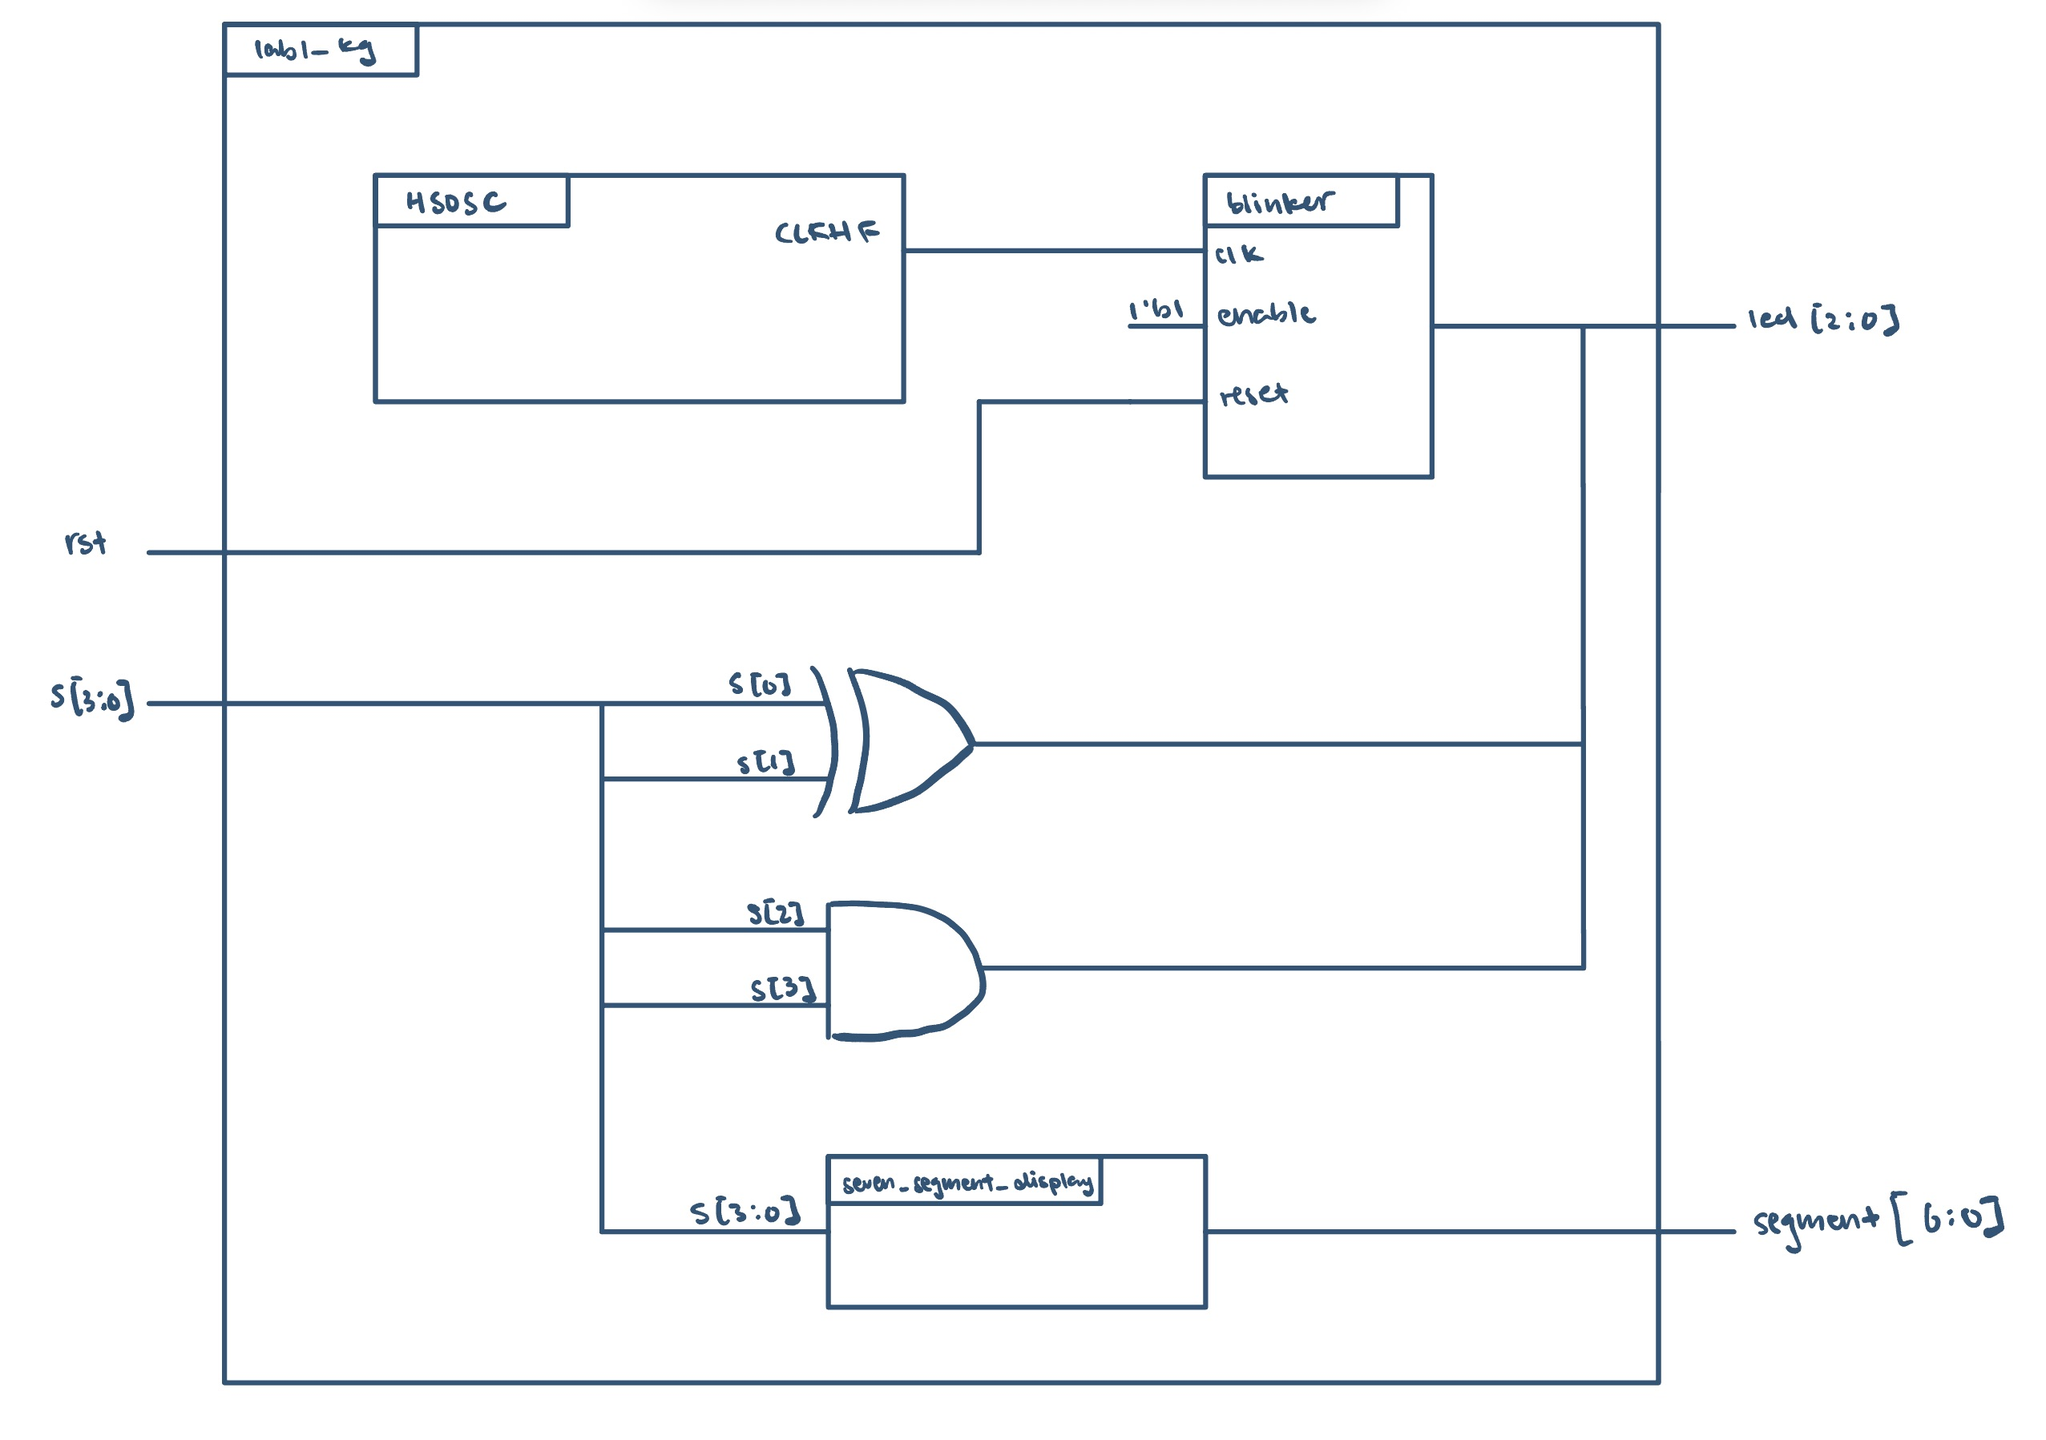
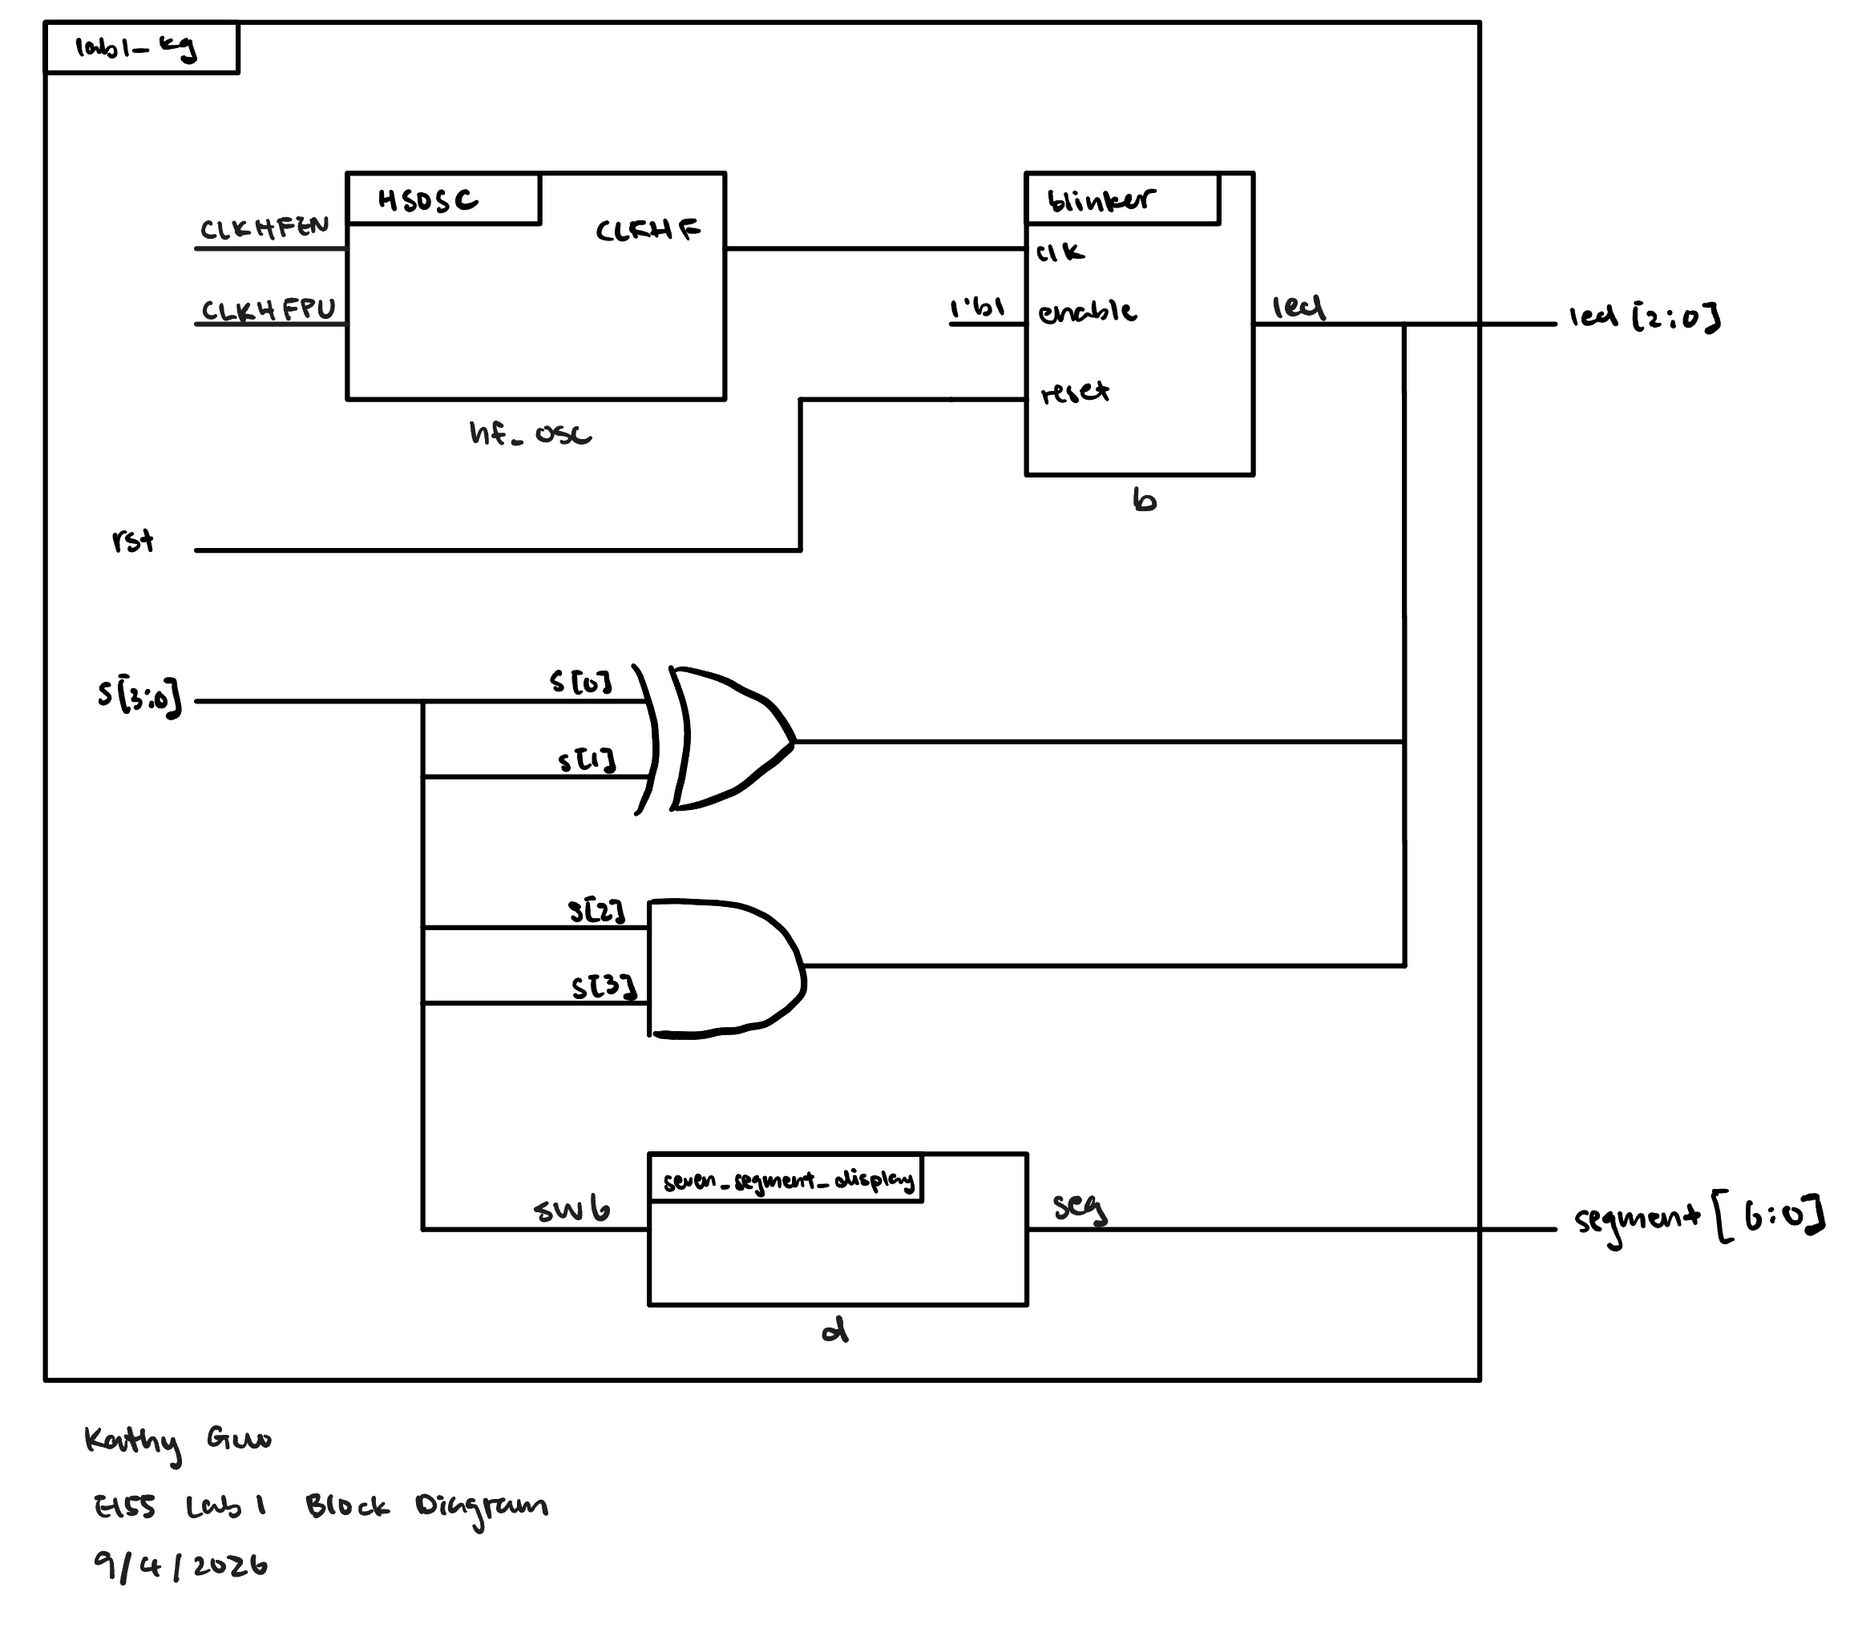
Built site for gh-pages

diff --git a/labs/lab1/lab1.html b/labs/lab1/lab1.html
@@ -161,14 +161,7 @@ window.Quarto = {
   <li><a href="#technical-documentation" id="toc-technical-documentation" class="nav-link" data-scroll-target="#technical-documentation">Technical Documentation</a>
   <ul class="collapse">
   <li><a href="#schematic" id="toc-schematic" class="nav-link" data-scroll-target="#schematic">Schematic</a></li>
-  <li><a href="#block-diagram" id="toc-block-diagram" class="nav-link" data-scroll-target="#block-diagram">Block Diagram</a></li>
   </ul></li>
-  <li><a href="#results-and-discussion" id="toc-results-and-discussion" class="nav-link" data-scroll-target="#results-and-discussion">Results and Discussion</a>
-  <ul class="collapse">
-  <li><a href="#testbench-simulation" id="toc-testbench-simulation" class="nav-link" data-scroll-target="#testbench-simulation">Testbench Simulation</a></li>
-  </ul></li>
-  <li><a href="#conclusion" id="toc-conclusion" class="nav-link" data-scroll-target="#conclusion">Conclusion</a></li>
-  <li><a href="#ai-prototype-summary" id="toc-ai-prototype-summary" class="nav-link" data-scroll-target="#ai-prototype-summary">AI Prototype Summary</a></li>
   </ul>
 </nav>
     </div>
@@ -210,68 +203,74 @@ window.Quarto = {
 <p>The source code for the project can be found in the associated <a href="https://github.com/kathy-guo811/e155-lab1">Github repository</a>.</p>
 <section id="schematic" class="level3">
 <h3 class="anchored" data-anchor-id="schematic">Schematic</h3>
-<div class="quarto-figure quarto-figure-center">
-<figure class="figure">
-<p><img src="lab1_images/lab1_sch.jpeg" class="img-fluid figure-img"></p>
-<figcaption>Figure 1: Schematic of the Physical Layout, Kathy Guo, 9/4/2026</figcaption>
-</figure>
+<div class="callout callout-style-simple callout-note no-icon callout-titled" title="Expand to see Lab 1 Schematic">
+<div class="callout-header d-flex align-content-center collapsed" data-bs-toggle="collapse" data-bs-target=".callout-4-contents" aria-controls="callout-4" aria-expanded="false" aria-label="Toggle callout">
+<div class="callout-icon-container">
+<i class="callout-icon no-icon"></i>
 </div>
-<p>Figure 1 shows the physical layout of the design. The pins connected to s[3:0] were configured with 100kΩ pull-up resistors to avoid invalid logic levels The output LED was connected using a current-limiting resistor to ensure the output current did not exceed the maximum output current of the FPGA I/O pins. The resistor value varies to ensure all segments are equally bright. The onboard LEDs were connected current limiting resistors and GPIO pins of the FPGA to perform their intended tasks.</p>
+<div class="callout-title-container flex-fill">
+<span class="screen-reader-only">Note</span>Expand to see Lab 1 Schematic
+</div>
+<div class="callout-btn-toggle d-inline-block border-0 py-1 ps-1 pe-0 float-end"><i class="callout-toggle"></i></div>
+</div>
+<div id="callout-4" class="callout-4-contents callout-collapse collapse">
+<div class="callout-body-container callout-body">
+<pre><code>![Figure 1: Schematic of the Physical Layout, Kathy Guo, 9/4/2026](lab1_images/lab1_sch.jpeg)
+
+Figure 1 shows the physical layout of the design. The pins connected to s[3:0] were configured with 100kΩ pull-up resistors to avoid invalid logic levels The output LED was connected using a current-limiting resistor to ensure the output current did not exceed the maximum output current of the FPGA I/O pins. The resistor value varies to ensure all segments are equally bright. The onboard LEDs were connected current limiting resistors and GPIO pins of the FPGA to perform their intended tasks.</code></pre>
 <section id="resistor-calculations" class="level4">
 <h4 class="anchored" data-anchor-id="resistor-calculations">Resistor Calculations</h4>
-<p>To limit the current through the LEDs with 5-20 mA, the following calculations were performed using Ohm’s Law: <span class="math display">\[V = IR\]</span> <span class="math display">\[R1 = \frac{3.3V}{330Ω} = 10mA\]</span> <span class="math display">\[R2 = \frac{3.3V}{180Ω} = 18.3mA\]</span></p>
-</section>
+<p>To limit the current through the LEDs and ensure all segments are equally bright, the following calculations were performed using Ohm’s Law: <span class="math display">\[V = IR\]</span> <span class="math display">\[R1 = \frac{3.3V-2.1V}{330Ω} = 3.64mA\]</span> <span class="math display">\[R2 = \frac{3.3V-2.1V}{180Ω} = 6.67mA\]</span></p>
 </section>
 <section id="block-diagram" class="level3">
 <h3 class="anchored" data-anchor-id="block-diagram">Block Diagram</h3>
-<div class="quarto-figure quarto-figure-center">
-<figure class="figure">
-<p><img src="lab1_images/lab1_bd.jpeg" class="img-fluid figure-img"></p>
-<figcaption>Figure 2: Block Diagram of the Verilog Design, Kathy Guo, 9/4/2026</figcaption>
-</figure>
+<div class="callout callout-style-simple callout-note no-icon callout-titled" title="Expand to see Lab 1 Block Diagram">
+<div class="callout-header d-flex align-content-center collapsed" data-bs-toggle="collapse" data-bs-target=".callout-3-contents" aria-controls="callout-3" aria-expanded="false" aria-label="Toggle callout">
+<div class="callout-icon-container">
+<i class="callout-icon no-icon"></i>
 </div>
-<p>Figure 2 shows the block diagram of the design. The top-level module <code>lab1_kg</code> includes three submodules: the high-speed oscillator block (<code>HSOSC</code>), the clock divider module(<code>blinker</code>), and the seven-segment display module(<code>seven_segment_display</code>).</p>
+<div class="callout-title-container flex-fill">
+<span class="screen-reader-only">Note</span>Expand to see Lab 1 Block Diagram
+</div>
+<div class="callout-btn-toggle d-inline-block border-0 py-1 ps-1 pe-0 float-end"><i class="callout-toggle"></i></div>
+</div>
+<div id="callout-3" class="callout-3-contents callout-collapse collapse">
+<div class="callout-body-container callout-body">
+<pre><code>![Figure 2: Block Diagram of the Verilog Design, Kathy Guo, 9/4/2026](lab1_images/lab1_bd.jpeg)
+
+Figure 2 shows the block diagram of the design. The top-level module `lab1_kg` includes three submodules: the high-speed oscillator block (`HSOSC`), the clock divider module(`blinker`), and the seven-segment display module(`seven_segment_display`). </code></pre>
 <section id="frequency-calculations" class="level4">
 <h4 class="anchored" data-anchor-id="frequency-calculations">Frequency Calculations</h4>
 <p>Given the frequency generated by the osciloscope is 24 MHz, the clock divider module was designed to divide the frequency down to 2.4 Hz. The following calculations were performed to determine the number of clock cycles, N, required for the desired frequency: <span class="math display">\[f_{out} = \frac{f_{in}}{N}\]</span> <span class="math display">\[2.4 Hz = \frac{24 MHz}{N}\]</span> <span class="math display">\[N = \frac{24 MHz}{2.4 Hz} = 10^7\]</span></p>
 <p>Therefore, the a 24-bit counter was implemented to count up to 10^7 clock cycles before toggling the output signal to achieve the desired blinking frequency of 2.4 Hz.</p>
 </section>
-</section>
-</section>
 <section id="results-and-discussion" class="level1">
 <h1>Results and Discussion</h1>
 <section id="testbench-simulation" class="level3">
 <h3 class="anchored" data-anchor-id="testbench-simulation">Testbench Simulation</h3>
-<div class="quarto-figure quarto-figure-center">
-<figure class="figure">
-<p><img src="lab1_images/lab1_seven_segment_display_wf.jpeg" class="img-fluid figure-img"></p>
-<figcaption>Figure 3: Waveform of the Seven_Segmennt_Display Testbench Simulation</figcaption>
-</figure>
+<div class="callout callout-style-simple callout-note no-icon callout-titled" title="Expand to see Lab 1 Simulation Results">
+<div class="callout-header d-flex align-content-center collapsed" data-bs-toggle="collapse" data-bs-target=".callout-2-contents" aria-controls="callout-2" aria-expanded="false" aria-label="Toggle callout">
+<div class="callout-icon-container">
+<i class="callout-icon no-icon"></i>
 </div>
-<div class="quarto-figure quarto-figure-center">
-<figure class="figure">
-<p><img src="lab1_images/lab1_blinker_wf.jpeg" class="img-fluid figure-img"></p>
-<figcaption>Figure 4: Waveform of the Blinker Testbench Simulation</figcaption>
-</figure>
+<div class="callout-title-container flex-fill">
+<span class="screen-reader-only">Note</span>Expand to see Lab 1 Simulation Results
 </div>
-<div class="quarto-figure quarto-figure-center">
-<figure class="figure">
-<p><img src="lab1_images/lab1_top_module_wf.jpeg" class="img-fluid figure-img"></p>
-<figcaption>Figure 5: Waveform of the Top Module Testbench Simulation</figcaption>
-</figure>
+<div class="callout-btn-toggle d-inline-block border-0 py-1 ps-1 pe-0 float-end"><i class="callout-toggle"></i></div>
 </div>
-<div class="quarto-figure quarto-figure-center">
-<figure class="figure">
-<p><img src="lab1_images/lab1_top_module_counter_wf.jpeg" class="img-fluid figure-img"></p>
-<figcaption>Figure 6: Waveform of the Top Module Counter Testbench Simulation</figcaption>
-</figure>
-</div>
+<div id="callout-2" class="callout-2-contents callout-collapse collapse">
+<div class="callout-body-container callout-body">
+<pre><code>![Figure 3: Waveform of the Seven_Segmennt_Display Testbench Simulation](lab1_images/lab1_seven_segment_display_wf.jpeg)
+
+![Figure 4: Waveform of the Blinker Testbench Simulation](lab1_images/lab1_blinker_wf.jpeg)
+
+![Figure 5: Waveform of the Top Module Testbench Simulation](lab1_images/lab1_top_module_wf.jpeg)
+
+![Figure 6: Waveform of the Top Module Counter Testbench Simulation](lab1_images/lab1_top_module_counter_wf.jpeg)</code></pre>
 <p>The design met all intended design objectives. The above figures show screenshots of the QuestaSim simulation waveforms for the <code>seven_segment_display</code>, <code>blinker</code>, and top-level, <code>lab1_kg</code>,module.</p>
 <p>The <code>seven_segment_display</code> module was tested with all possible combinations of the 4-position DIP switch inputs, and the output waveform shows that the correct segments of the 7-segment LED display were turned on for each input combination.</p>
 <p>The <code>blinker</code> module was tested with the 24 MHz clock signal from the high-speed oscillator, with `‘max_count’ set to 5 to show the toggling of the output signal.</p>
 <p>The <code>top module</code> was tested with the 24 MHz clock signal from the high-speed oscillator, and the output waveform shows that two onboard LEDs are turning on and off, and the counter is incrementing.</p>
-</section>
-</section>
 <section id="conclusion" class="level1">
 <h1>Conclusion</h1>
 <p>The design successfully implemented the intended functionality of controlling a 7-segment LED display, switching two onboard LEDs on and off, and blinking an onboard LED at a frequency of 2.4 Hz using the high-speed oscillator. I spent around 25 hours working on this lab.</p>
@@ -331,6 +330,20 @@ end</code></pre>
 <p>When using an LLM in my workflow next time, I would cross check the generated code with the official documentation to ensure that all configurations and parameters are correct.</p>
 
 
+</section>
+</div>
+</div>
+</div>
+</section>
+</section>
+</div>
+</div>
+</div>
+</section>
+</div>
+</div>
+</div>
+</section>
 </section>
 
 </main> <!-- /main -->

diff --git a/labs/lab2/lab2.html b/labs/lab2/lab2.html
@@ -161,14 +161,7 @@ window.Quarto = {
   <li><a href="#technical-documentation" id="toc-technical-documentation" class="nav-link" data-scroll-target="#technical-documentation">Technical Documentation</a>
   <ul class="collapse">
   <li><a href="#schematic" id="toc-schematic" class="nav-link" data-scroll-target="#schematic">Schematic</a></li>
-  <li><a href="#block-diagram" id="toc-block-diagram" class="nav-link" data-scroll-target="#block-diagram">Block Diagram</a></li>
   </ul></li>
-  <li><a href="#results-and-discussion" id="toc-results-and-discussion" class="nav-link" data-scroll-target="#results-and-discussion">Results and Discussion</a>
-  <ul class="collapse">
-  <li><a href="#testbench-simulation" id="toc-testbench-simulation" class="nav-link" data-scroll-target="#testbench-simulation">Testbench Simulation</a></li>
-  </ul></li>
-  <li><a href="#conclusion" id="toc-conclusion" class="nav-link" data-scroll-target="#conclusion">Conclusion</a></li>
-  <li><a href="#ai-prototype-summary" id="toc-ai-prototype-summary" class="nav-link" data-scroll-target="#ai-prototype-summary">AI Prototype Summary</a></li>
   </ul>
 </nav>
     </div>
@@ -208,12 +201,23 @@ window.Quarto = {
 <p>The source code for the project can be found in the associated <a href="https://github.com/kathy-guo811/e155-lab2">Github repository</a>.</p>
 <section id="schematic" class="level3">
 <h3 class="anchored" data-anchor-id="schematic">Schematic</h3>
+<div class="callout callout-style-simple callout-note no-icon callout-titled" title="Expand to see Lab 2 Schematic">
+<div class="callout-header d-flex align-content-center collapsed" data-bs-toggle="collapse" data-bs-target=".callout-2-contents" aria-controls="callout-2" aria-expanded="false" aria-label="Toggle callout">
+<div class="callout-icon-container">
+<i class="callout-icon no-icon"></i>
+</div>
+<div class="callout-title-container flex-fill">
+<span class="screen-reader-only">Note</span>Expand to see Lab 2 Schematic
+</div>
+<div class="callout-btn-toggle d-inline-block border-0 py-1 ps-1 pe-0 float-end"><i class="callout-toggle"></i></div>
+</div>
+<div id="callout-2" class="callout-2-contents callout-collapse collapse">
+<div class="callout-body-container callout-body">
 <p><img src="lab2_images/lab2_sch.jpeg" class="img-fluid" alt="Figure 1: Schematic of the LED, Kathy Guo, 9/4/2026"> <img src="lab2_images/lab2_sch.jpeg" class="img-fluid" alt="Figure 2: Schematic of the Kaypad, Kathy Guo, 9/4/2026"></p>
 <p>Figure 1 shows the physical layout of the design. The pins connected to s[3:0] were configured with 100kΩ pull-up resistors to avoid invalid logic levels The output LED was connected using a current-limiting resistor to ensure the output current did not exceed the maximum output current of the FPGA I/O pins. The resistor value varies to ensure all segments are equally bright. The onboard LEDs were connected current limiting resistors and GPIO pins of the FPGA to perform their intended tasks.</p>
 <section id="resistor-calculations" class="level4">
 <h4 class="anchored" data-anchor-id="resistor-calculations">Resistor Calculations</h4>
-<p>LED resistor: <span class="math display">\[V = IR\]</span> <span class="math display">\[R1 = \frac{3.3V}{100Ω} = 33mA\]</span> <span class="math display">\[R2 = \frac{3.3V}{100Ω}= 33mA\]</span></p>
-</section>
+<p>LED resistor: <span class="math display">\[V = IR\]</span> <span class="math display">\[R1 = \frac{3.3V-2.1V}{100Ω} = 12mA\]</span> <span class="math display">\[R2 = \frac{3.3V-2.1V}{100Ω}= 12mA\]</span></p>
 </section>
 <section id="block-diagram" class="level3">
 <h3 class="anchored" data-anchor-id="block-diagram">Block Diagram</h3>
@@ -228,7 +232,6 @@ window.Quarto = {
 <h4 class="anchored" data-anchor-id="frequency-calculations">Frequency Calculations</h4>
 <p>Given the frequency generated by the osciloscope is 24 MHz, the clock divider module was designed to divide the frequency down to 2.4 Hz. The following calculations were performed to determine the number of clock cycles, N, required for the desired frequency: <span class="math display">\[f_{out} = \frac{f_{in}}{N}\]</span> <span class="math display">\[2.4 Hz = \frac{24 MHz}{N}\]</span> <span class="math display">\[N = \frac{24 MHz}{2.4 Hz} = 10^7\]</span></p>
 <p>The frequency of the counter was set to 1 kHz to ensure that the two seven-segment displays are multiplexed at a frequency that is fast enough to avoid flickering. The following calculations were performed to determine the number of clock cycles, N, required for the desired frequency: <span class="math display">\[f_{out} = \frac{f_{in}}{N}\]</span> <span class="math display">\[1 kHz = \frac{24 MHz}{N}\]</span> <span class="math display">\[N = \frac{24 MHz}{1 kHz} = 24000\]</span></p>
-</section>
 </section>
 </section>
 <section id="results-and-discussion" class="level1">
@@ -271,6 +274,11 @@ window.Quarto = {
 </div>
 </div>
 </div>
+</section>
+</div>
+</div>
+</div>
+</section>
 </section>
 
 </main> <!-- /main -->
